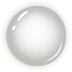
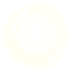
Mod:站立直播本场成就

diff --git a/src/main/java/com/xueersi/parentsmeeting/modules/livevideo/business/EnglishStandSpeekBll.java b/src/main/java/com/xueersi/parentsmeeting/modules/livevideo/business/EnglishStandSpeekBll.java
@@ -7,6 +7,7 @@ import android.content.Intent;
 import android.graphics.Rect;
 import android.net.Uri;
 import android.os.Environment;
+import android.support.annotation.Nullable;
 import android.util.Log;
 import android.view.LayoutInflater;
 import android.view.View;
@@ -18,6 +19,8 @@ import android.widget.RelativeLayout;
 import android.widget.TextView;
 
 import com.airbnb.lottie.LottieAnimationView;
+import com.airbnb.lottie.LottieComposition;
+import com.airbnb.lottie.OnCompositionLoadedListener;
 import com.tal.speech.asr.talAsrJni;
 import com.tal.speech.language.LanguageEncodeThread;
 import com.tal.speech.language.LanguageListener;
@@ -45,6 +48,7 @@ import java.io.IOException;
 import java.io.InputStream;
 import java.util.HashMap;
 import java.util.Map;
+import java.util.concurrent.atomic.AtomicBoolean;
 
 /**
  * Created by lyqai on 2017/10/31.
@@ -69,7 +73,9 @@ public class EnglishStandSpeekBll implements EnglishSpeekAction {
     private ViewGroup myView;
     private View rl_livevideo_english_speak_error;
     private ProgressBar tv_livevideo_english_prog;
-    private LottieAnimationView lottieAnimationView;
+    private LottieAnimationView starLottieAnimationView;
+    private LottieAnimationView goldLottieAnimationView;
+    AtomicBoolean haveGold = new AtomicBoolean(false);
     int praiseWidth;
     File s_language;
     TalLanguage talLanguage;
@@ -169,10 +175,11 @@ public class EnglishStandSpeekBll implements EnglishSpeekAction {
         myView.setVisibility(View.VISIBLE);
         final View layout_livevideo_stat_gold = LayoutInflater.from(activity).inflate(R.layout.layout_livevideo_stand_english_speek, myView, false);
         myView.addView(layout_livevideo_stat_gold);
+        goldLottieAnimationView = layout_livevideo_stat_gold.findViewById(R.id.lav_live_stand_english_gold);
         rl_livevideo_english_speak_error = layout_livevideo_stat_gold.findViewById(R.id.rl_livevideo_english_speak_error);
 //        tv_livevideo_english_prog = (ProgressBar) layout_livevideo_stat_gold.findViewById(R.id.tv_livevideo_english_prog);
         tv_livevideo_english_prog = (ProgressBar) activity.findViewById(R.id.tv_livevideo_english_prog);
-        lottieAnimationView = activity.findViewById(R.id.lav_livevideo_chievement);
+        starLottieAnimationView = activity.findViewById(R.id.lav_livevideo_chievement);
         layout_livevideo_stat_gold.findViewById(R.id.bt_livevideo_english_speak_set).setOnClickListener(new View.OnClickListener() {
             @Override
             public void onClick(View v) {
@@ -203,7 +210,12 @@ public class EnglishStandSpeekBll implements EnglishSpeekAction {
 //            tv_livevideo_english_prog.setVisibility(View.VISIBLE);
             start();
         }
-        lottieAnimationView.addAnimatorListener(new Animator.AnimatorListener() {
+        initlottieAnim();
+        return true;
+    }
+
+    private void initlottieAnim() {
+        starLottieAnimationView.addAnimatorListener(new Animator.AnimatorListener() {
             @Override
             public void onAnimationStart(Animator animator) {
                 Log.d(TAG, "onCompositionLoaded:onAnimationStart");
@@ -212,7 +224,8 @@ public class EnglishStandSpeekBll implements EnglishSpeekAction {
             @Override
             public void onAnimationEnd(Animator animator) {
                 Log.d(TAG, "onCompositionLoaded:onAnimationEnd");
-                lottieAnimationView.setProgress(0);
+                starLottieAnimationView.setProgress(0);
+                haveGold.set(false);
             }
 
             @Override
@@ -225,7 +238,31 @@ public class EnglishStandSpeekBll implements EnglishSpeekAction {
 
             }
         });
-        return true;
+        starLottieAnimationView.addAnimatorUpdateListener(new ValueAnimator.AnimatorUpdateListener() {
+            @Override
+            public void onAnimationUpdate(ValueAnimator animation) {
+                float fraction = animation.getAnimatedFraction();
+                if (!haveGold.get() && fraction > 0.32f) {
+                    goldLottieAnimationView.playAnimation();
+                    haveGold.set(true);
+                }
+            }
+        });
+        final String fileName = "live_stand/lottie/live_stand_jindu_gold.json";
+        final HashMap<String, String> assetFolders = new HashMap<String, String>();
+        assetFolders.put(fileName, "live_stand/lottie/jindu_gold");
+        LottieComposition.Factory.fromAssetFileName(activity, fileName, new OnCompositionLoadedListener() {
+            @Override
+            public void onCompositionLoaded(@Nullable LottieComposition composition) {
+                Log.d(TAG, "onCompositionLoaded:composition=" + composition);
+                if (composition == null) {
+//                    Toast.makeText(activity, "加载失败", Toast.LENGTH_SHORT).show();
+                    return;
+                }
+                goldLottieAnimationView.setImageAssetsFolder(assetFolders.get(fileName));
+                goldLottieAnimationView.setComposition(composition);
+            }
+        });
     }
 
     @Override
@@ -342,8 +379,8 @@ public class EnglishStandSpeekBll implements EnglishSpeekAction {
                                         float progress = newProgress / 45 * 0.32f;
                                         Loger.d(TAG, "onProcessData:second=" + second + ",oldProgress=" + oldProgress + ",newProgress=" + newProgress + ",progress=" + progress);
                                         if (newProgress < 45) {
-                                            lottieAnimationView.cancelAnimation();
-                                            lottieAnimationView.setProgress(progress);
+                                            starLottieAnimationView.cancelAnimation();
+                                            starLottieAnimationView.setProgress(progress);
                                             final ValueAnimator valueAnimator = ValueAnimator.ofFloat(startProgress, newProgress);
                                             final float finalNewProgress = newProgress;
                                             valueAnimator.addUpdateListener(new ValueAnimator.AnimatorUpdateListener() {
@@ -385,8 +422,7 @@ public class EnglishStandSpeekBll implements EnglishSpeekAction {
                                             valueAnimator.start();
                                             lastValueAnimator = valueAnimator;
                                         } else {
-                                            lottieAnimationView.resumeAnimation();
-//                                            lottieAnimationView.setProgress(0);
+                                            starLottieAnimationView.resumeAnimation();
                                             if (lastValueAnimator != null) {
                                                 lastValueAnimator.cancel();
                                                 lastValueAnimator = null;

diff --git a/src/main/java/com/xueersi/parentsmeeting/modules/livevideo/widget/StandLiveLottieAnimationView.java b/src/main/java/com/xueersi/parentsmeeting/modules/livevideo/widget/StandLiveLottieAnimationView.java
@@ -7,6 +7,7 @@ import android.graphics.BitmapFactory;
 import android.graphics.Canvas;
 import android.graphics.Color;
 import android.graphics.Paint;
+import android.graphics.Typeface;
 import android.util.AttributeSet;
 
 import com.airbnb.lottie.LottieAnimationView;
@@ -52,6 +53,8 @@ public class StandLiveLottieAnimationView extends LottieAnimationView {
             canvas.drawBitmap(img_7Bitmap, 0, 0, null);
             Paint paint = new Paint();
             paint.setTextSize(24);
+            paint.setTypeface(Typeface.DEFAULT_BOLD);
+            paint.setAntiAlias(true);
             paint.setColor(Color.WHITE);
             float width = paint.measureText(num);
             canvas.drawText(num, (img_7Bitmap.getWidth() - img_3Bitmap.getWidth() / 2) / 2 + img_3Bitmap.getWidth() / 2 - width / 2, img_7Bitmap.getHeight() / 2 + paint.measureText("a") / 2, paint);
@@ -74,22 +77,24 @@ public class StandLiveLottieAnimationView extends LottieAnimationView {
         AssetManager manager = getContext().getAssets();
         Bitmap img_7Bitmap;
         try {
-            img_7Bitmap = BitmapFactory.decodeStream(manager.open("live_stand/lottie/jindu/img_4.png"));
+            img_7Bitmap = BitmapFactory.decodeStream(manager.open("live_stand/lottie/jindu/img_3.png"));
 //            Bitmap img_3Bitmap = BitmapFactory.decodeStream(manager.open("Images/jindu/img_3.png"));
             Bitmap creatBitmap = Bitmap.createBitmap(img_7Bitmap.getWidth(), img_7Bitmap.getHeight(), Bitmap.Config.ARGB_8888);
             Canvas canvas = new Canvas(creatBitmap);
             canvas.drawBitmap(img_7Bitmap, 0, 0, null);
             Paint paint = new Paint();
             paint.setTextSize(24);
+            paint.setTypeface(Typeface.DEFAULT_BOLD);
+            paint.setAntiAlias(true);
             paint.setColor(0xff8C4302);
             float width = paint.measureText(num);
-            canvas.drawText(num, (img_7Bitmap.getWidth() - width) / 2, (img_7Bitmap.getHeight()+ paint.measureText("a")) / 2, paint);
+            canvas.drawText(num, (img_7Bitmap.getWidth() - width) / 2, (img_7Bitmap.getHeight() + paint.measureText("a")) / 2, paint);
 //                    canvas.drawRect(img_9Bitmap.getWidth()/2, 0, img_3Bitmap.getWidth(), img_3Bitmap.getHeight(), paint);
             img_7Bitmap = creatBitmap;
         } catch (IOException e) {
 //            e.printStackTrace();
             return;
         }
-        updateBitmap("image_4", img_7Bitmap);
+        updateBitmap("image_3", img_7Bitmap);
     }
 }

diff --git a/src/main/java/com/xueersi/parentsmeeting/modules/livevideo/business/LiveStandAchievementBll.java b/src/main/java/com/xueersi/parentsmeeting/modules/livevideo/business/LiveStandAchievementBll.java
@@ -185,7 +185,7 @@ public class LiveStandAchievementBll implements StarInteractAction {
     }
 
     private void initlottieAnim() {
-        final String fileName = "live_stand_jindu.json";
+        final String fileName = "live_stand/lottie/live_stand_jindu.json";
         final HashMap<String, String> assetFolders = new HashMap<String, String>();
         assetFolders.put(fileName, "live_stand/lottie/jindu");
         LottieComposition.Factory.fromAssetFileName(activity, fileName, new OnCompositionLoadedListener() {
